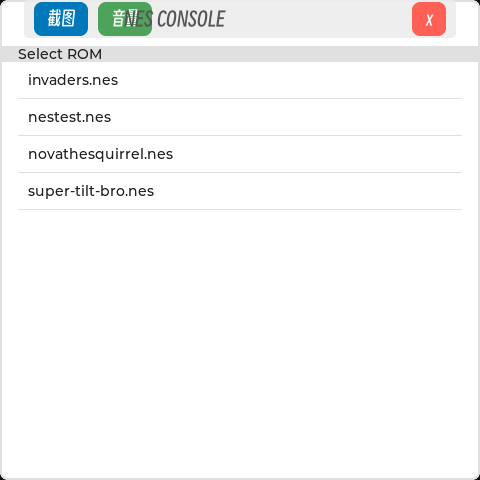
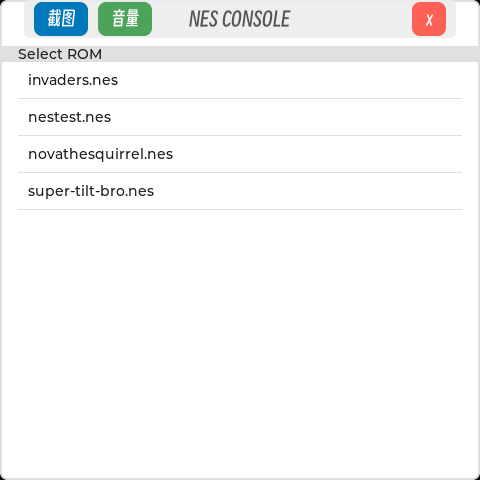
@update(ui): 顶部栏标题文字居中 + START/SEL 移到 B/A 下方横排
- 顶部栏标题 label 加 text_align CENTER（原 LONG_DOT+定宽默认左对齐，
  "NES CONSOLE"/ROM 名显示偏左）。板端实测字形中心 = 屏中心 240。
- START/SEL 芯片从中间缝移到 B/A 正下方同一列横排（x 与 B/A 对齐，
  y438 起 62x26），与 B/A 形成规整右簇；中心缝留空。
- 板端刷新三张截图（菜单居中标题 / 游戏+顶部栏 / Invaders 新键位）。

Changed region(s): [[0.25, 0.0, 0.5938, 0.0625]]

diff --git a/src/Page/View.cpp b/src/Page/View.cpp
@@ -453,7 +453,10 @@ Overlay * overlay_create(lv_obj_t * root, const char * title,
     lv_obj_t * tlabel = lv_label_create(bar);
     lv_obj_set_style_text_font(tlabel, ovl_font(20), 0);
     lv_obj_set_style_text_color(tlabel, lv_color_hex(0x555555), 0);
+    /* LONG_DOT clips overlong titles; text_align CENTER keeps short titles
+     * (e.g. "NES CONSOLE") truly centered within the reserved width. */
     lv_label_set_long_mode(tlabel, LV_LABEL_LONG_DOT);
+    lv_obj_set_style_text_align(tlabel, LV_TEXT_ALIGN_CENTER, 0);
     lv_label_set_text(tlabel, title);
     lv_obj_set_width(tlabel, bar_w - 200);
     lv_obj_align(tlabel, LV_ALIGN_CENTER, 0, 0);
@@ -531,6 +534,29 @@ lv_obj_t * mkPadButton(lv_obj_t * parent, const char * text, lv_color_t color,
     lv_obj_add_event_cb(btn, padEventCb, LV_EVENT_RELEASED, (void *)(intptr_t)key);
     lv_obj_add_event_cb(btn, padEventCb, LV_EVENT_PRESS_LOST, (void *)(intptr_t)key);
     return btn;
+}
+
+/* Small translucent chip (START/SEL), same press wiring as the pad keys. */
+lv_obj_t * mkChip(lv_obj_t * parent, const char * text, int x, int y, int w, int h, int key)
+{
+    lv_obj_t * chip = lv_button_create(parent);
+    lv_obj_set_pos(chip, x, y);
+    lv_obj_set_size(chip, w, h);
+    lv_obj_set_style_bg_color(chip, lv_color_hex(0x303030), 0);
+    lv_obj_set_style_bg_opa(chip, LV_OPA_60, 0);
+    lv_obj_set_style_radius(chip, 6, 0);
+    lv_obj_set_style_border_width(chip, 0, 0);
+    lv_obj_set_style_bg_color(chip, lv_color_hex(0x506070), LV_STATE_PRESSED);
+    lv_obj_add_event_cb(chip, padEventCb, LV_EVENT_PRESSED, (void *)(intptr_t)key);
+    lv_obj_add_event_cb(chip, padEventCb, LV_EVENT_RELEASED, (void *)(intptr_t)key);
+    lv_obj_add_event_cb(chip, padEventCb, LV_EVENT_PRESS_LOST, (void *)(intptr_t)key);
+
+    lv_obj_t * lab = lv_label_create(chip);
+    lv_label_set_text(lab, text);
+    lv_obj_set_style_text_color(lab, lv_color_white(), 0);
+    lv_obj_set_style_text_font(lab, &lv_font_montserrat_14, 0);
+    lv_obj_center(lab);
+    return chip;
 }
 
 /* ROM selection holders (single menu instance per app). */
@@ -648,38 +674,10 @@ void View::showGame(const std::string & romPath, KeyCb keyCb, GameExitCb gameExi
     mkPadButton(scr, "B", lv_color_hex(0x884422), 320, 389, 62, 46, BTN_B);
     mkPadButton(scr, "A", lv_color_hex(0x224488), 388, 389, 62, 46, BTN_A);
 
-    /* START / SELECT: small translucent chips in the centre gap */
-    lv_obj_t * sta = lv_button_create(scr);
-    lv_obj_set_pos(sta, 238, 362);
-    lv_obj_set_size(sta, 68, 28);
-    lv_obj_set_style_bg_color(sta, lv_color_hex(0x303030), 0);
-    lv_obj_set_style_bg_opa(sta, LV_OPA_60, 0);
-    lv_obj_set_style_radius(sta, 6, 0);
-    lv_obj_set_style_border_width(sta, 0, 0);
-    lv_obj_add_event_cb(sta, padEventCb, LV_EVENT_PRESSED, (void *)(intptr_t)BTN_START);
-    lv_obj_add_event_cb(sta, padEventCb, LV_EVENT_RELEASED, (void *)(intptr_t)BTN_START);
-    lv_obj_add_event_cb(sta, padEventCb, LV_EVENT_PRESS_LOST, (void *)(intptr_t)BTN_START);
-    lv_obj_t * sta_l = lv_label_create(sta);
-    lv_label_set_text(sta_l, "START");
-    lv_obj_set_style_text_color(sta_l, lv_color_white(), 0);
-    lv_obj_set_style_text_font(sta_l, &lv_font_montserrat_14, 0);
-    lv_obj_center(sta_l);
-
-    lv_obj_t * sel = lv_button_create(scr);
-    lv_obj_set_pos(sel, 238, 402);
-    lv_obj_set_size(sel, 68, 28);
-    lv_obj_set_style_bg_color(sel, lv_color_hex(0x303030), 0);
-    lv_obj_set_style_bg_opa(sel, LV_OPA_60, 0);
-    lv_obj_set_style_radius(sel, 6, 0);
-    lv_obj_set_style_border_width(sel, 0, 0);
-    lv_obj_add_event_cb(sel, padEventCb, LV_EVENT_PRESSED, (void *)(intptr_t)BTN_SELECT);
-    lv_obj_add_event_cb(sel, padEventCb, LV_EVENT_RELEASED, (void *)(intptr_t)BTN_SELECT);
-    lv_obj_add_event_cb(sel, padEventCb, LV_EVENT_PRESS_LOST, (void *)(intptr_t)BTN_SELECT);
-    lv_obj_t * sel_l = lv_label_create(sel);
-    lv_label_set_text(sel_l, "SEL");
-    lv_obj_set_style_text_color(sel_l, lv_color_white(), 0);
-    lv_obj_set_style_text_font(sel_l, &lv_font_montserrat_14, 0);
-    lv_obj_center(sel_l);
+    /* START / SELECT: one horizontal row directly BELOW B/A, sharing the
+     * same column x-offsets (aligned with the B/A pair). */
+    mkChip(scr, "START", 320, 438, 62, 26, BTN_START);
+    mkChip(scr, "SEL", 388, 438, 62, 26, BTN_SELECT);
 
     /* ---- gesture overlays: top bar hidden, volume bar hidden,
      * swipe-down/left reveal them; 退出 -> back to menu ---- */
